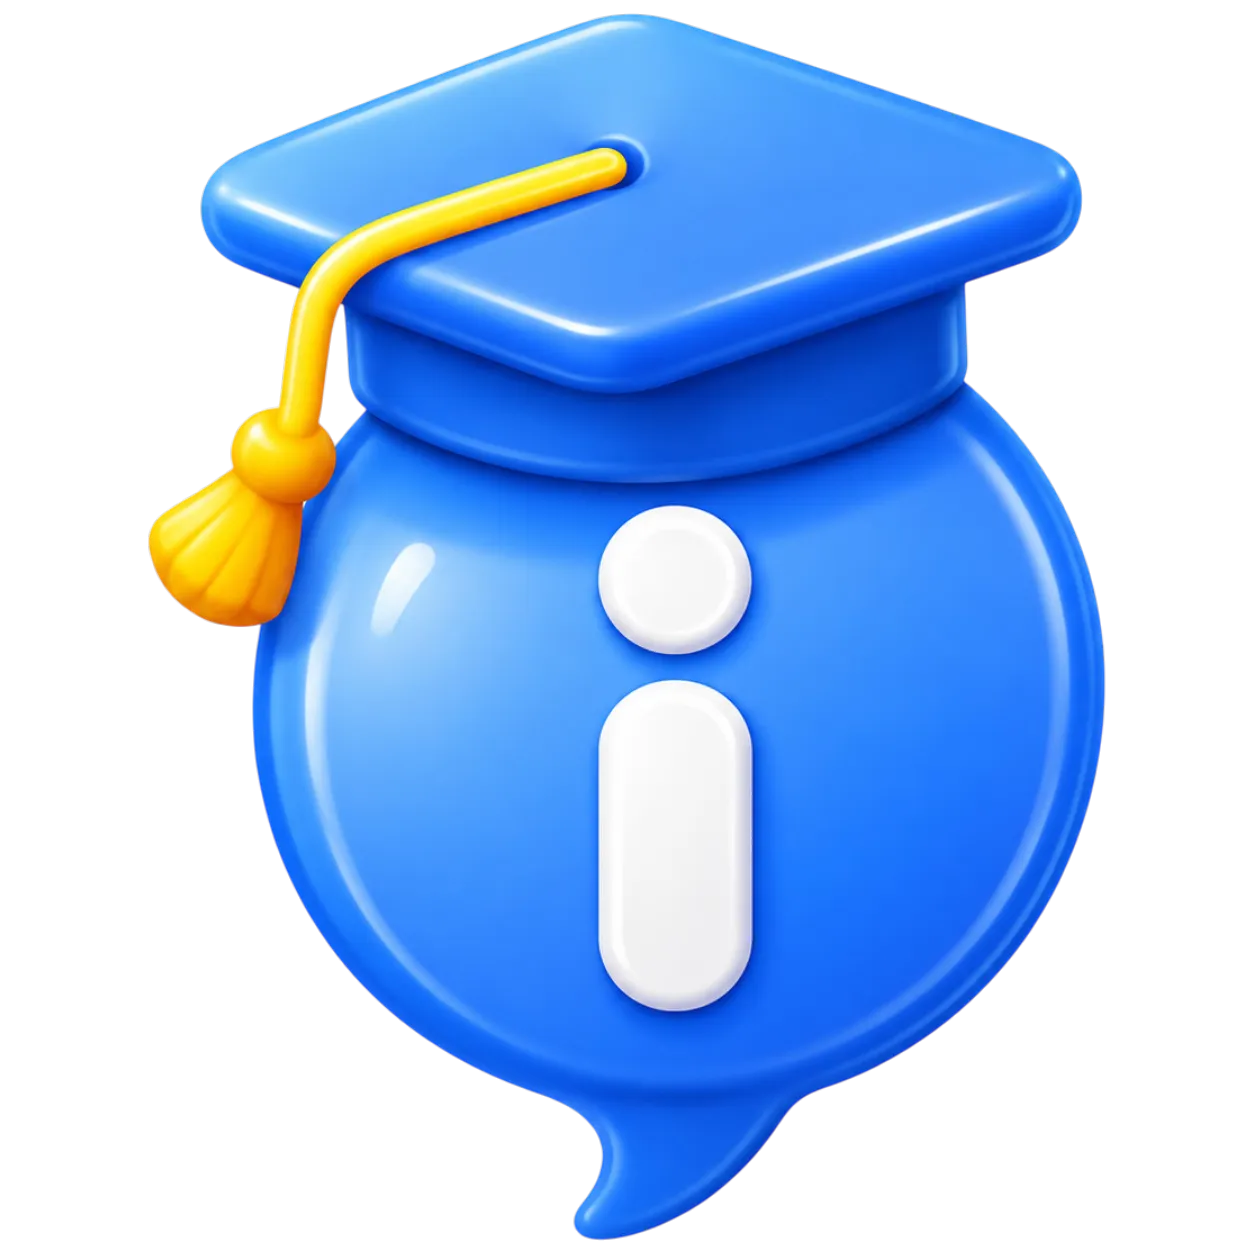
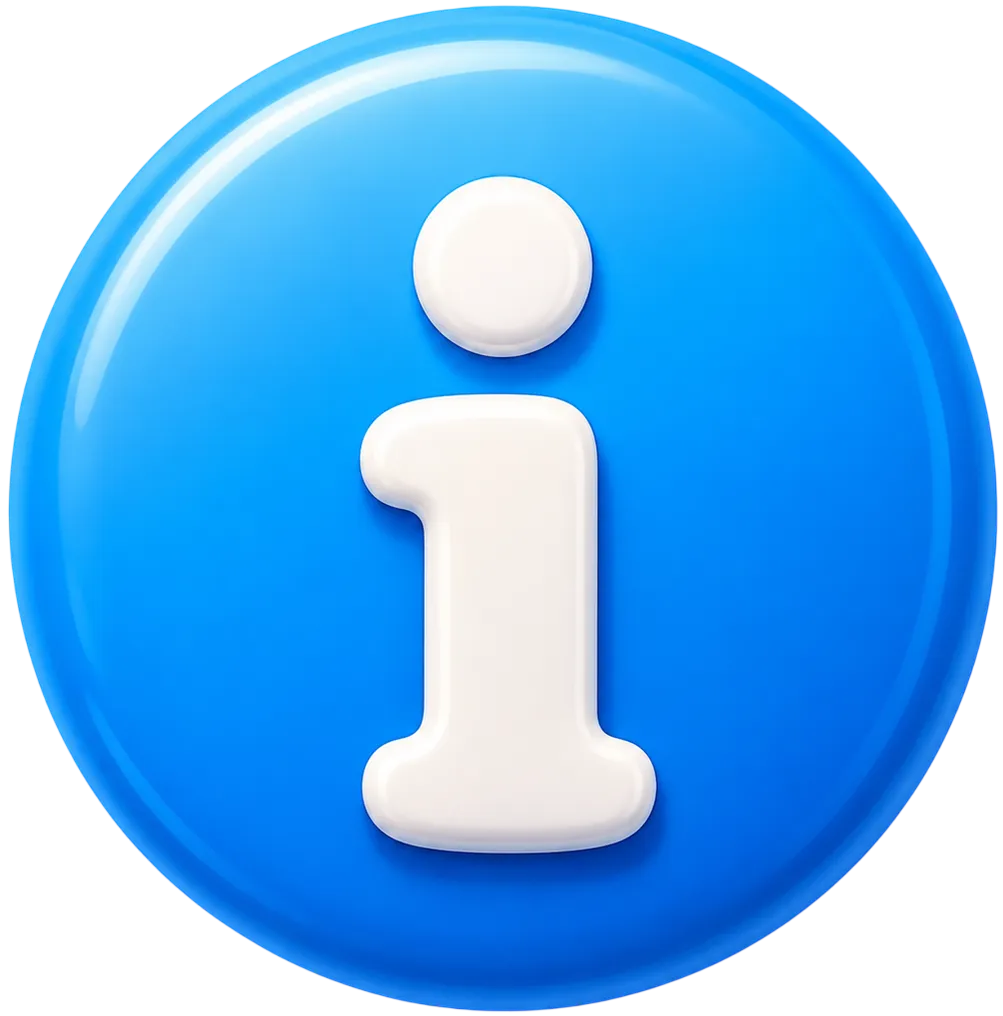
feat(uinfo): info button

diff --git a/srcs/frontend/src/components/core/Info.tsx b/srcs/frontend/src/components/core/Info.tsx
@@ -1,19 +1,40 @@
+
+import InfoLogo from '../../assets/info.webp'
 // BOTÃO = RGPD - /rgpd
 // BOTÃO = FAQ - /faq
 
+const Hover = () => {
+  return (
+    <>
+      <div className='px-12 py-4 text-black text-sm'>
+        <a href="/faq" target="_blank" className="text-white/90 font-['Fredoka',sans-serif] font-semibold text-2xl no-underline hover:text-blue-300">
+          FAQ
+        </a>
+        <br />
+        <a href="/rgpd" target="_blank" className="text-white/90 font-['Fredoka',sans-serif]  font-semibold text-2xl no-underline hover:text-blue-300">
+          RGPD
+        </a>
+      </div>
+    </>
+  )
+}
+
+
+
 const Info = () => {
   return (
-    <div className="fixed bottom-4 right-4 z-50">
-      <a
-        href="/faq"
-        className="px-4 py-2 bg-blue-600 text-white rounded-full shadow-lg transition duration-200 hover:bg-blue-700"
-      >
-        INFO
-        </a>
-        <div className="hidden md:block absolute -top-14 bg-white/95 text-[#1e3a8a] text-[14px] font-extrabold px-4 py-2 rounded-full border-2 border-white shadow-md whitespace-nowrap z-20 pointer-events-none transition-all duration-300 ease-out
+    <div className="fixed bottom-[0%] right-[5%] z-50">
+      <div className="text-center justify-content group round rounded-full h-30 w-30 px-4 py bg-transparent text with rounded">
+        <img src={InfoLogo} className='z-40 w-20 h-20 hover:scale-110 transition-transform duration-200'/>
+        <div className="bottom-50 right-15 w-50 hidden md:block relative bottom-10 bg-blue-900/90 text-[#1e3a8a] text-[14px] font-extrabold px-6 py-2 rounded-full border-2 border-blue-900 shadow-md whitespace-nowrap z-20 transition-all duration-300 ease-out
                 invisible opacity-0 translate-y-2
                 group-hover:visible group-hover:opacity-100 group-hover:translate-y-0"
-              ></div>
+        >
+          <Hover />
+          {/* ARROW */}
+          <div className="absolute bottom-[-6px] left-1/2 -translate-x-1/2 w-0 h-0 border-l-[6px] border-l-transparent border-r-[6px] border-r-transparent border-t-[6px] border-t-blue-900 border-blue-900/90"></div>
+        </div>
+      </div>
     </div>
   );
 };